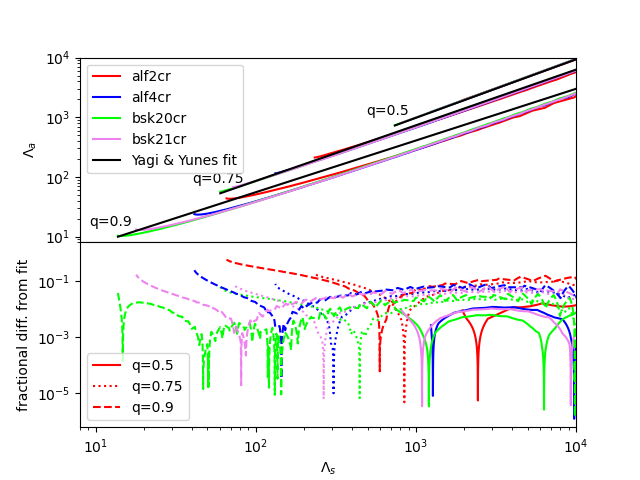
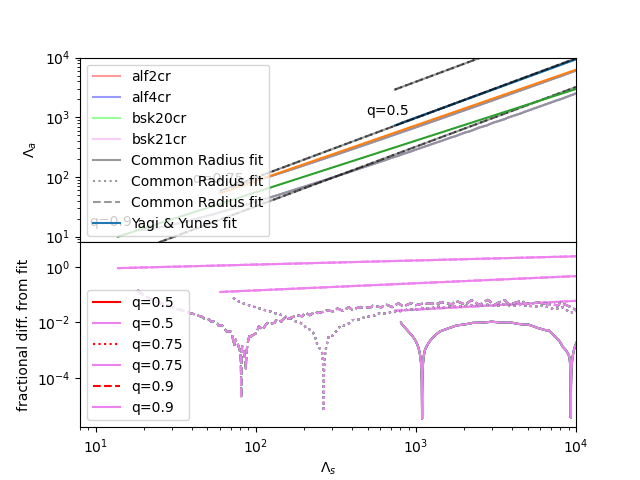
outputs some plots but labels are wrong and not sure if plots are correct

diff --git a/plotter.py b/plotter.py
@@ -4,10 +4,10 @@ import matplotlib.pyplot as plt
 from eos import EOS
 
 class Plotter:
-    def __init__(self, qs, eos_names, truth, fits, ax_lims=(8, 1e4)):
+    def __init__(self, qs, eos_names, Truth, fits, ax_lims=(8, 1e4)):
         self.qs = qs
         self.eos_names = eos_names
-        self.truth = truth
+        self.Truth = Truth
         self.fits = fits
         self.ax_min = ax_lims[0]
         self.ax_max = ax_lims[1]
@@ -16,27 +16,34 @@ class Plotter:
         self.fit_names = []
 
         self.lower_lims = []
+        self.upper_lims = []
 
         for q in self.qs:
             self.qs_dict[str(q)] = {}
             dictionary = self.qs_dict[str(q)]
-            truth = self.truth(q=q)
 
             for eos_name in self.eos_names:
                 eos = EOS(name=eos_name, q=q)
                 dictionary[eos_name] = eos
+                self.lower_lims.append(eos.lower_lim)
+                self.upper_lims.append(eos.upper_lim)
+
+            self.lower_lim = np.min(self.lower_lims)
+            self.upper_lim = np.max(self.upper_lims)
+
+            truth = self.Truth(q=q, lims=(self.lower_lim, self.upper_lim))
+            dictionary['truth'] = truth
+
+            for eos_name in self.eos_names:
+                dictionary[eos_name] = eos
                 residual = np.abs(eos.lambda_a - truth.function(eos.lambda_s)) / truth.function(eos.lambda_s)
                 dictionary[eos_name + '_residual'] = residual
-                self.lower_lims.append(eos.lower_lim)
-
-            self.lower_lim = np.min(lower_lims)
-            self.upper_lim = ax.get_xlim()[1]
 
             for Fit in self.fits:
-                fit = Fit(q=q)
+                fit = Fit(q=q, lims=(self.lower_lim, self.upper_lim))
                 dictionary[fit.name] = fit
                 self.fit_names.append(fit.name)
-                residual = np.abs(fit.lambda_a - truth.function(eos.lambda_s)) / truth.function(eos.lambda_s)
+                residual = np.abs(fit.lambda_a - truth.function(fit.lambda_a)) / truth.function(fit.lambda_a)
                 dictionary[fit.name + '_residual'] = residual
 
             self.linestyles = ['solid', 'dotted', 'dashed', 'dashdot']
@@ -45,21 +52,29 @@ class Plotter:
     def plot_main_on_ax(self, ax):
         for i, q in enumerate(self.qs):
             dictionary = self.qs_dict[str(q)]
-            fit = dictionary['fit']
+            truth = dictionary['truth']
 
             label = None
 
-            for j, name in enumerate(self.names):
+            for j, name in enumerate(self.eos_names):
                 eos = dictionary[name]
                 color = self.colors[j % len(self.colors)]
                 if i == 0:
                     label = name
-                eos.plot(ax=ax, label=label, color=color)
+                eos.plot(ax=ax, label=label, color=color, alpha=0.4)
+
+            for j, name in enumerate(self.fit_names):
+                fit = dictionary[name]
+                linestyle = self.linestyles[j % len(self.linestyles)]
+                if i == 0:
+                    label=name
+                fit.plot(ax=ax, label=label, linestyle=linestyle, color='black', alpha=0.4)
 
             if i == 0:
-                label=self.truth.name
+                label=truth.name
 
-            fit.plot(ax=ax, lims=(self.lower_lim, self.upper_lim), label=label)
+            truth.plot(ax=ax, label=label, alpha=1)
+
 
         ax.set_ylim((self.ax_min, self.ax_max))
         ax.set_xlim((self.ax_min, self.ax_max))
@@ -73,8 +88,21 @@ class Plotter:
 
             linestyle = self.linestyles[i % len(self.linestyles)]
 
-            for j, name in enumerate(self.names):
+            for j, name in enumerate(self.eos_names):
                 color = self.colors[j % len(self.colors)]
+
+                x = dictionary[name].lambda_s
+                y = dictionary[name + '_residual']
+
+                label = None
+
+                if j == 0:
+                    label = 'q=' + str(q)
+
+                ax.plot(x, y, label=label, linestyle=linestyle, color=color)
+
+            for j, name in enumerate(self.fit_names):
+                linestyle = self.linestyles[j % len(self.linestyles)]
 
                 x = dictionary[name].lambda_s
                 y = dictionary[name + '_residual']
@@ -147,7 +175,7 @@ class Plotter:
 
     def plot_raw(self, save=False, show=False):
         fig, ax = plt.subplots(1, 1)
-        for name in self.names:
+        for name in self.eos_names:
             eos = EOS(name=name, q=1)
             eos.plot_raw(ax=ax)
 

diff --git a/fits.py b/fits.py
@@ -1,7 +1,7 @@
 import numpy as np
 
 class YagiYunes:
-    def __init__(self, q):
+    def __init__(self, q, lims):
         self.q = q
 
         self.name = 'Yagi & Yunes fit'
@@ -13,6 +13,12 @@ class YagiYunes:
         self.c = np.reshape(self.c, newshape=(3, 2))
 
         self.n = 0.743
+
+        lambda_s = np.linspace(*lims, 1000, dtype=complex)  # complex for fractional root in numpy
+        lambda_a = self.function(lambda_s)
+
+        self.lambda_s = np.real(lambda_s)  # imaginary parts should be all zero
+        self.lambda_a = np.real(lambda_a)
 
     def f(self, q): # not sure if should pass q upon init or only in f
         numerator = 1 - q**(10 / (3 - self.n))
@@ -31,24 +37,24 @@ class YagiYunes:
         result = self.f(self.q) * lambda_s * fraction
         return result
 
-    def plot(self, ax, lims, **kwargs):
-        lambda_s = np.linspace(*lims, 1000, dtype=complex) # complex for fractional root in numpy
-        lambda_a = self.function(lambda_s)
+    def plot(self, ax, **kwargs):
+        ax.plot(self.lambda_s, self.lambda_a, **kwargs)
 
-        lambda_s = np.real(lambda_s) # imaginary parts should be all zero
-        lambda_a = np.real(lambda_a)
-
-        ax.plot(lambda_s, lambda_a, color='black', **kwargs)
-
-        text_x = np.min(lambda_s) / 1.5
-        text_y = np.min(lambda_a) * 1.5
+        text_x = np.min(self.lambda_s) / 1.5
+        text_y = np.min(self.lambda_a) * 1.5
         ax.text(text_x, text_y, 'q=' + str(self.q))
 
 class CommonRadius:
-    def __init__(self, q):
+    def __init__(self, q, lims):
         self.q = q
 
         self.name = 'Common Radius fit'
+
+        lambda_s = np.linspace(*lims, 1000, dtype=complex)  # complex for fractional root in numpy
+        lambda_a = self.function(lambda_s)
+
+        self.lambda_s = np.real(lambda_s)  # imaginary parts should be all zero
+        self.lambda_a = np.real(lambda_a)
 
     def function(self, lambda_s):
         lambda_1 = self.q**3 * lambda_s
@@ -57,11 +63,5 @@ class CommonRadius:
         result = (lambda_2 - lambda_1) / 2
         return result
 
-    def plot(self, ax, lims, **kwargs):
-        lambda_s = np.linspace(*lims, 1000, dtype=complex)  # complex for fractional root in numpy
-        lambda_a = self.function(lambda_s)
-
-        lambda_s = np.real(lambda_s)  # imaginary parts should be all zero
-        lambda_a = np.real(lambda_a)
-
-        ax.plot(lambda_s, lambda_a, color='black', **kwargs)
+    def plot(self, ax, **kwargs):
+        ax.plot(self.lambda_s, self.lambda_a, **kwargs)

diff --git a/main.py b/main.py
@@ -1,4 +1,4 @@
-from fits import YagiYunes
+from fits import YagiYunes, CommonRadius
 from plotter import Plotter
 
 eos_names = ['alf2cr', 'alf4cr', 'bsk20cr', 'bsk21cr', 'bsr2cr', 'dd2ycr', 'ddhdcr', 'ddq2acr', 'gm1bcr', 'h4cr',
@@ -9,7 +9,7 @@ qs = [0.5, 0.75, 0.9]
 ax_min = 8
 ax_max = 1e4
 
-plotter = Plotter(eos_names=eos_names, qs=qs, Fit=YagiYunes, ax_lims=(ax_min, ax_max))
+plotter = Plotter(qs=qs, eos_names=eos_names, Truth=YagiYunes, fits=[CommonRadius], ax_lims=(ax_min, ax_max))
 
 plotter.plot_main(save=True)
 plotter.plot_residual(save=True)

diff --git a/eos.py b/eos.py
@@ -30,6 +30,7 @@ class EOS:
         self.lambda_a = (lambda_m2 - lambda_m1) / 2
 
         self.lower_lim = np.min(self.lambda_s)
+        self.upper_lim = np.max(self.lambda_s)
 
     def plot(self, ax, **kwargs):
         ax.plot(self.lambda_s, self.lambda_a, **kwargs)
